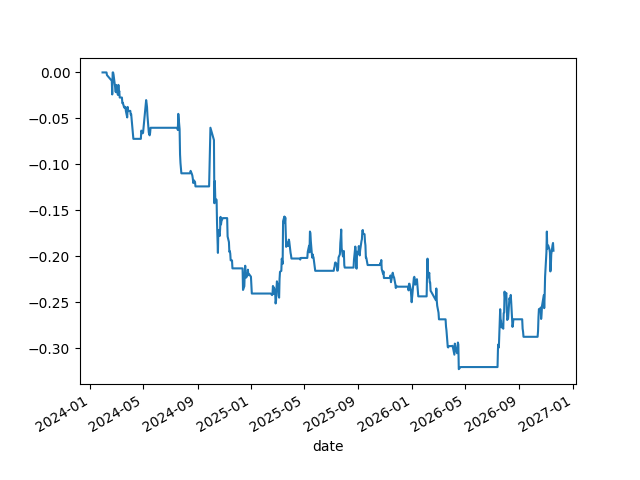
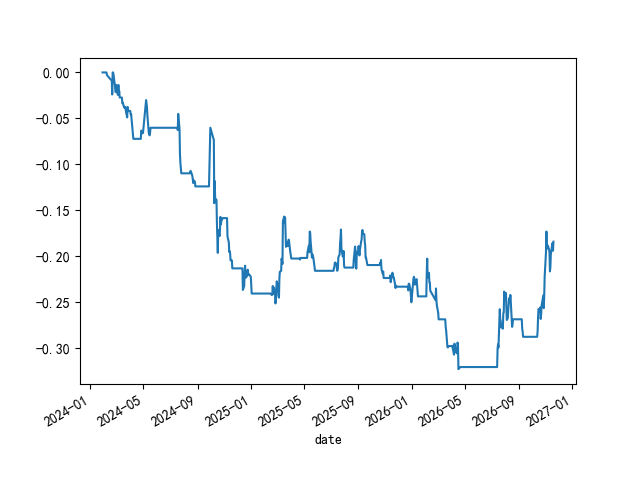
day 27: 策略 vs 买入持有同图；678 天只有 72 天跑赢，全部在 2024-09-25 之前

diff --git a/python_study/get_ma_v2.py b/python_study/get_ma_v2.py
@@ -4,6 +4,13 @@ from matplotlib import pyplot as plt
 from indicators import get_df, get_ma
 import numpy as np
 
+
+# 设置中文字体（SimHei 黑体，Windows 自带）
+plt.rcParams['font.sans-serif'] = ['SimHei']
+# 解决负号显示异常的问题
+plt.rcParams['axes.unicode_minus'] = False
+
+
 print("\n===== 取数结果（get_ma 的返回值，最后 5 行）=====")
 
 result_sh600519 = get_ma("sh600519", "qfq", "20240101")
@@ -167,3 +174,16 @@ print(f"盈亏比    : {Profit_Loss_Ratio:.3f}   ← 平均盈利 / 平均亏损
 print(f"每笔期望  : {wins_rate * np.mean(wins) + (1 - wins_rate) * np.mean(losses):+.4%}   ← 胜率×平均盈利 + (1-胜率)×平均亏损")
 print(f"盈利因子  : {sum(wins) / abs(sum(losses)):.3f}   ← 总盈利 / 总亏损（另一个指标，别和盈亏比混）")
 
+fig, ax = plt.subplots(figsize=(12, 6))
+ax.plot(nav,    label="MA5/MA20 择时")
+ax.plot(nav_bh, label="买入持有")
+ax.set_title("策略 vs 买入持有（净值，起点 1.0）")
+ax.legend()
+fig.savefig(Path(__file__).with_name("nav_compare.png"))
+plt.close(fig)
+
+print(f"策略最高   {nav.max():.4f} @ {nav.idxmax().date()}")
+print(f"买入持有最高 {nav_bh.max():.4f} @ {nav_bh.idxmax().date()}")
+ratio = nav / nav_bh      # >1 = 策略领先，<1 = 策略落后
+print(f"策略相对最强 {ratio.max():.3f} @ {ratio.idxmax().date()}")
+print(f"策略相对最弱 {ratio.min():.3f} @ {ratio.idxmin().date()}")
